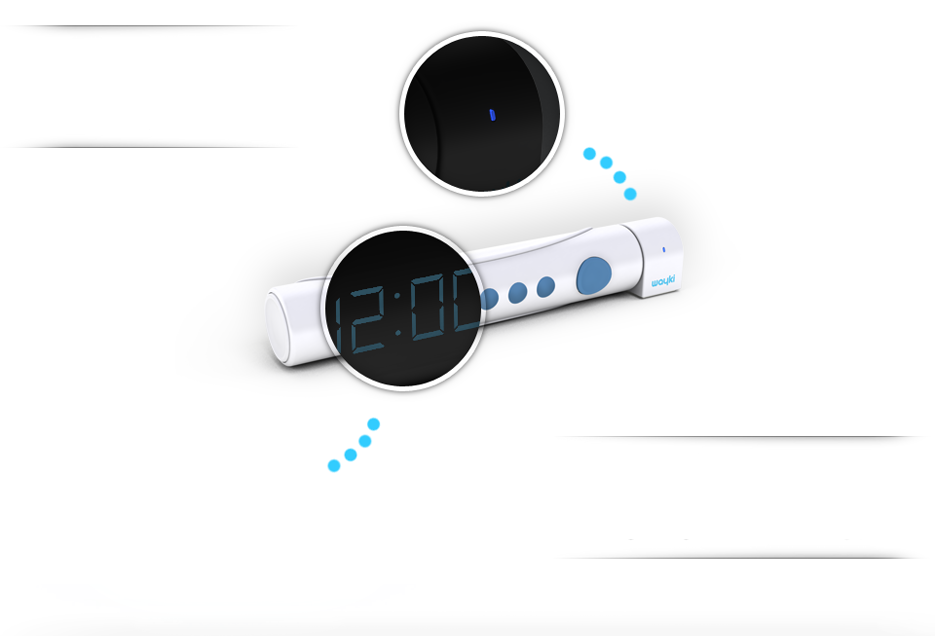
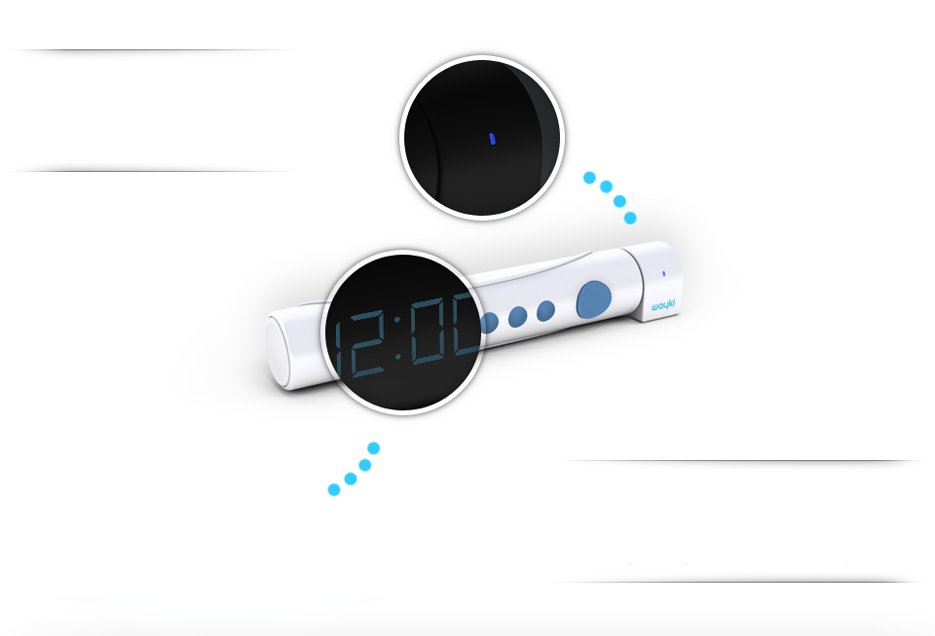
change values

diff --git a/app/assets/stylesheets/homepage/key_points.css.scss b/app/assets/stylesheets/homepage/key_points.css.scss
@@ -26,28 +26,28 @@ h3 {
 
 #one {
   background: url(image_path("1-background.jpg")) no-repeat bottom left;
-  height: 580px;
+  height: 590px;
   width: 936px;
 }
 
 #two {
   background: url(image_path("2-background.jpg")) no-repeat bottom left;
-  height: 580px;
+  height: 590px;
 }
 
 #three {
   background: url(image_path("3-background.jpg")) no-repeat bottom left;
-  height: 580px;
+  height: 590px;
 }
 
 #four {
   background: url(image_path("4-background.jpg")) no-repeat bottom left;
-  height: 580px;
+  height: 590px;
 }
 
 #five {
   background: url(image_path("5-background.jpg")) no-repeat bottom left;
-  height: 580px;
+  height: 590px;
 }
 
 #six {
@@ -57,7 +57,7 @@ h3 {
 
 #seven {
   background: url(image_path("7-background.jpg")) no-repeat bottom left;
-  height: 580px;
+  height: 590px;
 }
 
 .right {
